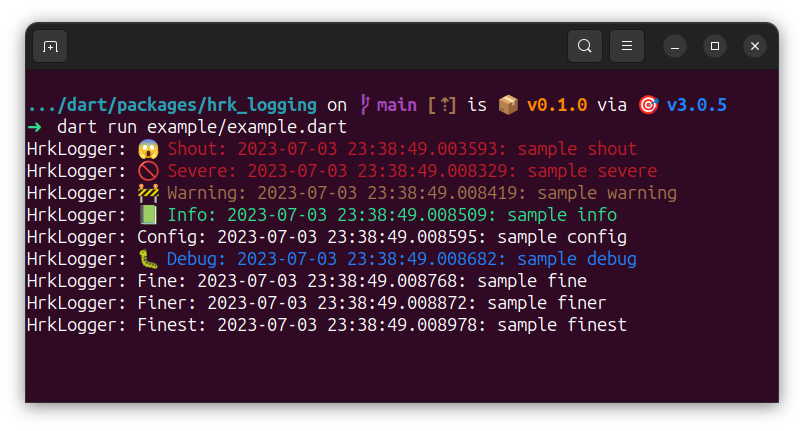
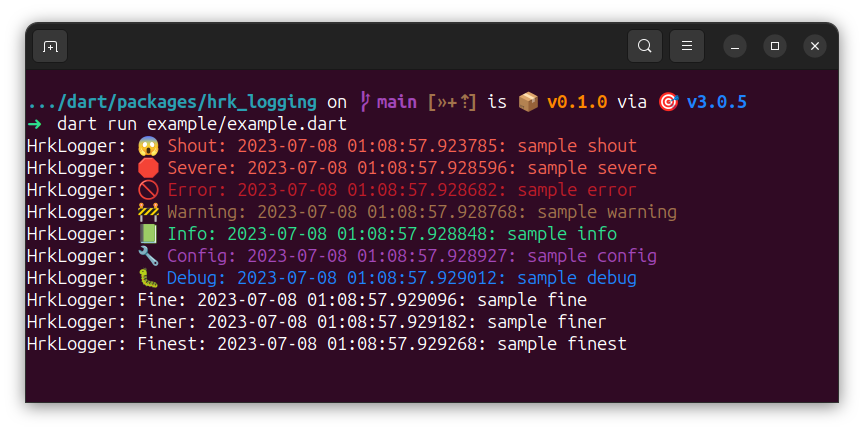
Add HrkLevel.ERROR

diff --git a/test/hrk_logging_test.dart b/test/hrk_logging_test.dart
@@ -9,6 +9,7 @@ void main() {
   group('HrkLogging Test', () {
     test('HrkLevel', () {
       HrkLevel.LEVELS.contains(HrkLevel.DEBUG);
+      HrkLevel.LEVELS.contains(HrkLevel.ERROR);
     });
 
     test('Print log', () {
@@ -16,6 +17,7 @@ void main() {
       final log = Logger(name)..level = Level.ALL;
       log.shout('sample shout');
       log.severe('sample severe');
+      log.error('sample error');
       log.warning('sample warning');
       log.info('sample info');
       log.config('sample config');
@@ -24,13 +26,14 @@ void main() {
       log.finer('sample finer');
       log.finest('sample finest');
       Logger.root.clearListeners();
+      rootLoggerSubscription = null;
     });
 
     test('Assert log', () async {
       Level level = Level.SHOUT;
       String message = 'sample ${level.toString().toLowerCase()}';
       RegExp pattern = RegExp('^$name: '
-          '${RegExp.escape('${AnsiColor.red}${Emoji.shout}')} '
+          '${RegExp.escape('${AnsiColor.brightRed}${Emoji.shout}')} '
           '${level.toString().capitalize()}: .*'
           '$message'
           '${RegExp.escape(AnsiColor.reset)}\$');
@@ -39,7 +42,16 @@ void main() {
       level = Level.SEVERE;
       message = 'sample ${level.toString().toLowerCase()}';
       pattern = RegExp('^$name: '
-          '${RegExp.escape('${AnsiColor.red}${Emoji.severe}')} '
+          '${RegExp.escape('${AnsiColor.brightRed}${Emoji.severe}')} '
+          '${level.toString().capitalize()}: .*'
+          '$message'
+          '${RegExp.escape(AnsiColor.reset)}\$');
+      await verifyLog(name, level, message, pattern);
+
+      level = HrkLevel.ERROR;
+      message = 'sample ${level.toString().toLowerCase()}';
+      pattern = RegExp('^$name: '
+          '${RegExp.escape('${AnsiColor.red}${Emoji.error}')} '
           '${level.toString().capitalize()}: .*'
           '$message'
           '${RegExp.escape(AnsiColor.reset)}\$');
@@ -66,8 +78,10 @@ void main() {
       level = Level.CONFIG;
       message = 'sample ${level.toString().toLowerCase()}';
       pattern = RegExp('^$name: '
+          '${RegExp.escape('${AnsiColor.magenta}${Emoji.config}')} '
           '${level.toString().capitalize()}: .*'
-          '$message\$');
+          '$message'
+          '${RegExp.escape(AnsiColor.reset)}\$');
       await verifyLog(name, level, message, pattern);
 
       level = HrkLevel.DEBUG;
@@ -115,6 +129,7 @@ Future<void> verifyLog(
       final log = Logger(name)..level = level;
       log.log(level, message);
       Logger.root.clearListeners();
+      rootLoggerSubscription = null;
     },
     zoneSpecification: ZoneSpecification(
       print: (self, parent, zone, line) {

diff --git a/lib/src/hrk_logging.dart b/lib/src/hrk_logging.dart
@@ -6,11 +6,11 @@ import 'package:logging/logging.dart';
 import 'ansi_color.dart';
 import 'emoji.dart';
 import 'globals.dart';
-import 'level_debug.dart';
+import 'hrk_level.dart';
 
 export 'ansi_color.dart';
 export 'emoji.dart';
-export 'level_debug.dart';
+export 'hrk_level.dart';
 
 /// To maintain idempotency of the configureLogging()
 StreamSubscription<LogRecord>? rootLoggerSubscription;
@@ -23,6 +23,7 @@ void configureHrkLogging() {
   hierarchicalLoggingEnabled = true;
   Level level = kDebugMode ? Level.ALL : Level.INFO;
   Logger.root.level = dartOrFlutterTest ? Level.OFF : level;
+
   rootLoggerSubscription = Logger.root.onRecord.listen((record) {
     late final String color;
     late final String emoji;
@@ -30,9 +31,12 @@ void configureHrkLogging() {
     late final String resetColor;
     if (record.level == Level.SHOUT) {
       emoji = Emoji.shout;
-      color = AnsiColor.red;
+      color = AnsiColor.brightRed;
     } else if (record.level == Level.SEVERE) {
       emoji = Emoji.severe;
+      color = AnsiColor.brightRed;
+    } else if (record.level == HrkLevel.ERROR) {
+      emoji = Emoji.error;
       color = AnsiColor.red;
     } else if (record.level == Level.WARNING) {
       emoji = Emoji.warning;
@@ -40,6 +44,9 @@ void configureHrkLogging() {
     } else if (record.level == Level.INFO) {
       emoji = Emoji.info;
       color = AnsiColor.green;
+    } else if (record.level == Level.CONFIG) {
+      emoji = Emoji.config;
+      color = AnsiColor.magenta;
     } else if (record.level == HrkLevel.DEBUG) {
       emoji = Emoji.debug;
       color = AnsiColor.blue;
@@ -54,7 +61,9 @@ void configureHrkLogging() {
       '$color'
       '$emoji'
       '$emojiSpacer'
-      '${record.level.name.capitalize()}: ${record.time}: ${record.message}'
+      '${record.level.name.capitalize()}: '
+      '${record.time}: '
+      '${record.message}'
       '$resetColor',
     );
   });

diff --git a/lib/src/hrk_level.dart b/lib/src/hrk_level.dart
@@ -1,10 +1,12 @@
+// ignore_for_file: constant_identifier_names
+
 import 'package:logging/logging.dart';
 
 class HrkLevel {
-  // ignore: constant_identifier_names
   static const Level DEBUG = Level('DEBUG', 600);
 
-  // ignore: constant_identifier_names
+  static const Level ERROR = Level('ERROR', 950);
+
   static const List<Level> LEVELS = [
     Level.ALL,
     Level.FINEST,
@@ -14,6 +16,7 @@ class HrkLevel {
     Level.CONFIG,
     Level.INFO,
     Level.WARNING,
+    HrkLevel.ERROR,
     Level.SEVERE,
     Level.SHOUT,
     Level.OFF
@@ -23,4 +26,7 @@ class HrkLevel {
 extension HrkLogger on Logger {
   void debug(Object? message, [Object? error, StackTrace? stackTrace]) =>
       log(HrkLevel.DEBUG, message, error, stackTrace);
+
+  void error(Object? message, [Object? error, StackTrace? stackTrace]) =>
+      log(HrkLevel.ERROR, message, error, stackTrace);
 }

diff --git a/lib/src/ansi_color.dart b/lib/src/ansi_color.dart
@@ -1,8 +1,12 @@
-/// Source - https://github.com/flutter/flutter/blob/master/packages/flutter_tools/lib/src/base/terminal.dart
+/// Sources:
+///   - https://github.com/flutter/flutter/blob/master/packages/flutter_tools/lib/src/base/terminal.dart
+///   - https://en.wikipedia.org/wiki/ANSI_escape_code#3-bit_and_4-bit
 class AnsiColor {
   static const String red = '\u001b[31m';
   static const String green = '\u001b[32m';
   static const String yellow = '\u001b[33m';
   static const String blue = '\u001b[34m';
+  static const String magenta = '\u001b[35m';
+  static const String brightRed = '\u001b[91m';
   static const String reset = '\u001B[39m';
 }

diff --git a/lib/src/emoji.dart b/lib/src/emoji.dart
@@ -1,7 +1,11 @@
 class Emoji {
   static const String shout = '😱';
-  static const String severe = '🚫';
+  static const String severe = '🛑';
+  static const String error = '🚫';
+  // static const String warning = '⚠';
   static const String warning = '🚧';
   static const String info = '📗';
+  // static const String config = '⚙';
+  static const String config = '🔧';
   static const String debug = '🐛';
 }

diff --git a/example/example.dart b/example/example.dart
@@ -5,6 +5,7 @@ void main() {
   final log = Logger('HrkLogger')..level = Level.ALL;
   log.shout('sample shout');
   log.severe('sample severe');
+  log.error('sample error');
   log.warning('sample warning');
   log.info('sample info');
   log.config('sample config');

diff --git a/README.md b/README.md
@@ -53,14 +53,32 @@ void main() {
 }
 ```
 
-## Additional information
+## Logging Levels in other Languages and Frameworks
 
-- This package is intended for the beginners.
+- [RFC 5424 (syslog standard)][]
+- [java.util.logging.Level][]
+- [android.util.Log][]
+- [Log4J][Log4J Logging Levels]
+- [Python][Python Logging Levels]
+- [Swift][]
+- [glog][]
+
+## Credits
+
 - If you find this package useful, make sure you do the following
   - Like the original [`logging`][] package on pub.dev
   - Like [this][`hrk_logging`] package on pub.dev
+  - Star [this][`hrk_logging.dart`] repo on GitHub
 
 
 [lib/src/helper/helper_non_web.dart]: lib/src/helper/helper_non_web.dart
+[RFC 5424 (syslog standard)]: https://datatracker.ietf.org/doc/html/rfc5424#section-6.2.1
+[java.util.logging.Level]: https://docs.oracle.com/en/java/javase/20/docs/api/java.logging/java/util/logging/Level.html
+[android.util.Log]: https://source.android.com/docs/core/tests/debug/understanding-logging
+[Log4J Logging Levels]: https://logging.apache.org/log4j/2.x/manual/customloglevels.html
+[Python Logging Levels]: https://docs.python.org/3/library/logging.html#logging-levels
+[Swift]: https://www.swift.org/server/guides/libraries/log-levels.html
+[glog]: https://github.com/google/glog#severity-levels
 [`logging`]: https://pub.dev/packages/logging
 [`hrk_logging`]: https://pub.dev/packages/hrk_logging
+[`hrk_logging.dart`]: https://github.com/hrishikesh-kadam/hrk_logging.dart

diff --git a/CHANGELOG.md b/CHANGELOG.md
@@ -1,3 +1,12 @@
+## 0.1.0
+
+- Add HrkLevel.ERROR in between Level.WARNING and Level.SEVERE
+- Assign 🚫 emoji to Level.ERROR
+- Assign 🛑 emoji to Level.SEVERE
+- Assign Brigh Red color to Level.SEVERE and Level.SHOUT
+- Assign 🔧 emoji to CONFIG
+- Assign Magenta color to CONFIG
+
 ## 0.1.0-pre.3
 
 - Integrate hrk_analysis
